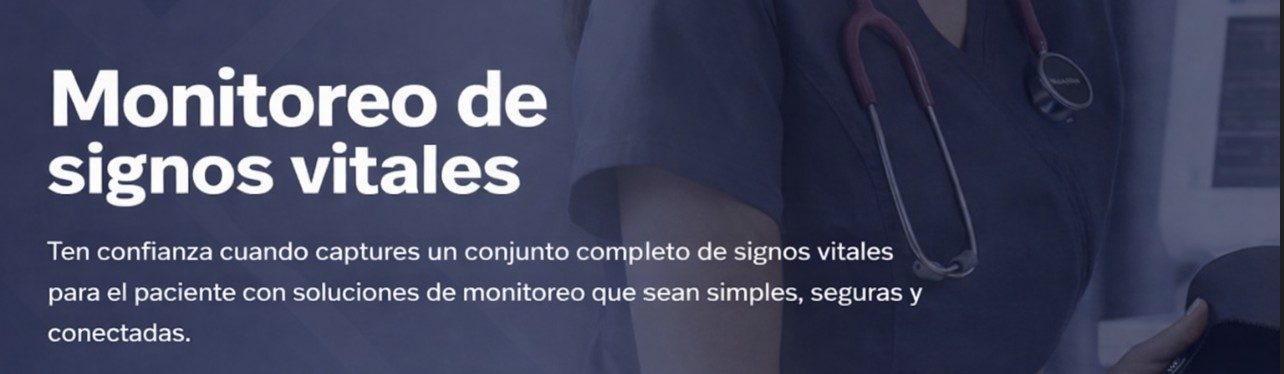
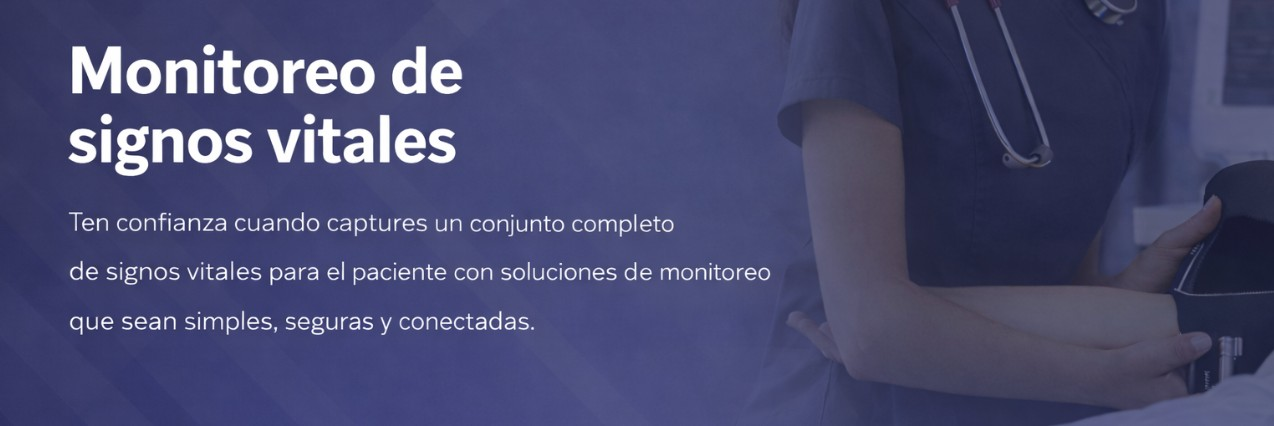
encabezado

diff --git a/dashboard/src/App.tsx b/dashboard/src/App.tsx
@@ -104,7 +104,7 @@ export default function App() {
   {/* IMAGEN */}
   <div style={{ flex: 1, textAlign: "right" }}>
     <img 
-      src="/monitoreo.jpg" 
+      src="/monitor_clinico.jpg" 
       alt="Monitor"
       style={{
         maxWidth: "100%",
